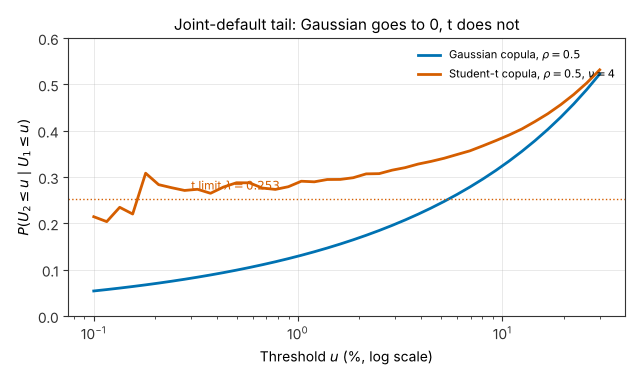
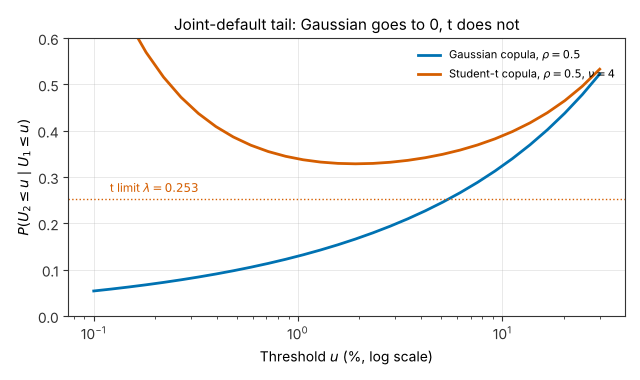
WIP: diagrams in progress
Claude-Session: https://claude.ai/code/session_011jxtZvfPgVEi4xYQRFGwx1

diff --git a/.anchor/session-state.md b/.anchor/session-state.md
@@ -1,25 +1,36 @@
 # Session state (auto-saved — last known reality)
 
-_Updated: 2026-10-19 19:29:50_  ·  branch: `claude/quant-deck-cpp-training-0rix4z`
+_Updated: 2026-10-19 19:30:04_  ·  branch: `claude/quant-deck-cpp-training-0rix4z`
 
 ## Uncommitted changes
 ```
  M .anchor/session-state.md
-?? anki-deskstrat-rates-credit/media/09_scenarios_markets_reg_11_margin_loop.png
-?? anki-deskstrat-rates-credit/media/09_scenarios_markets_reg_12_ldi_chain.png
-?? anki-deskstrat-rates-credit/media/09_scenarios_markets_reg_22_realised_spread.png
-?? anki-deskstrat-rates-credit/media/09_scenarios_markets_reg_29_exit_cost.png
-?? anki-deskstrat-rates-credit/media/09_scenarios_markets_reg_2_fly_dv01.png
+ M anki-deskstrat-rates-credit/media/06_credit_models_cln_31_gaussian_vs_t_tail.png
+ M anki-deskstrat-rates-credit/media/18_desk_7_0_limit_breach_flow.png
+?? anki-deskstrat-rates-credit/media/02_swaps_curves__v3_0_jpy_basis_flow.png
+?? anki-deskstrat-rates-credit/media/02_swaps_curves__v3_10_year_end_turn.png
+?? anki-deskstrat-rates-credit/media/02_swaps_curves__v3_12_meeting_forward.png
+?? anki-deskstrat-rates-credit/media/02_swaps_curves__v3_3_mtm_reset.png
+?? anki-deskstrat-rates-credit/media/02_swaps_curves__v3_4_csa_df.png
+?? anki-deskstrat-rates-credit/media/02_swaps_curves__v3_5_switch_option.png
+?? anki-deskstrat-rates-credit/media/02_swaps_curves__v3_9_basis_pv.png
+?? anki-deskstrat-rates-credit/media/09_scenarios_markets_reg_deep_21_pnl_waterfall.png
+?? anki-deskstrat-rates-credit/media/09_scenarios_markets_reg_deep_23_kva_profile.png
+?? anki-deskstrat-rates-credit/media/09_scenarios_markets_reg_deep_4_markout_path.png
+?? anki-deskstrat-rates-credit/media/09_scenarios_markets_reg_deep_6_frtb_kcurve.png
 ```
 
 Diff stat:
 ```
- .anchor/session-state.md | 38 ++++++--------------------------------
- 1 file changed, 6 insertions(+), 32 deletions(-)
+ .anchor/session-state.md                           |  39 ++++++++-------------
+ .../06_credit_models_cln_31_gaussian_vs_t_tail.png | Bin 42713 -> 43220 bytes
+ .../media/18_desk_7_0_limit_breach_flow.png        | Bin 82028 -> 81538 bytes
+ 3 files changed, 14 insertions(+), 25 deletions(-)
 ```
 
 ## Recent commits
 ```
+4eca41d Fact-check fixes: C++ modules 5 and 7
 76a7e39 WIP: diagrams in progress
 612455c Fact-check fixes: numerics top-up
 ef762e1 WIP: diagrams in progress
@@ -27,7 +38,6 @@ d5f988a Difficulty tags on old files 01-06
 3474fb6 WIP: diagrams, tags and fact-check fixes in progress
 a8a2f6a Fact-check fixes: XVA and converts top-ups; difficulty tags on old files 07-12
 e11ec42 Fact-check fixes: C++ modules 3 and 4
-05f8932 Add C++ module 6; diagram support in build; apply_diagrams tool; WIP diagrams and tags
 ```
 
 ## Resume
